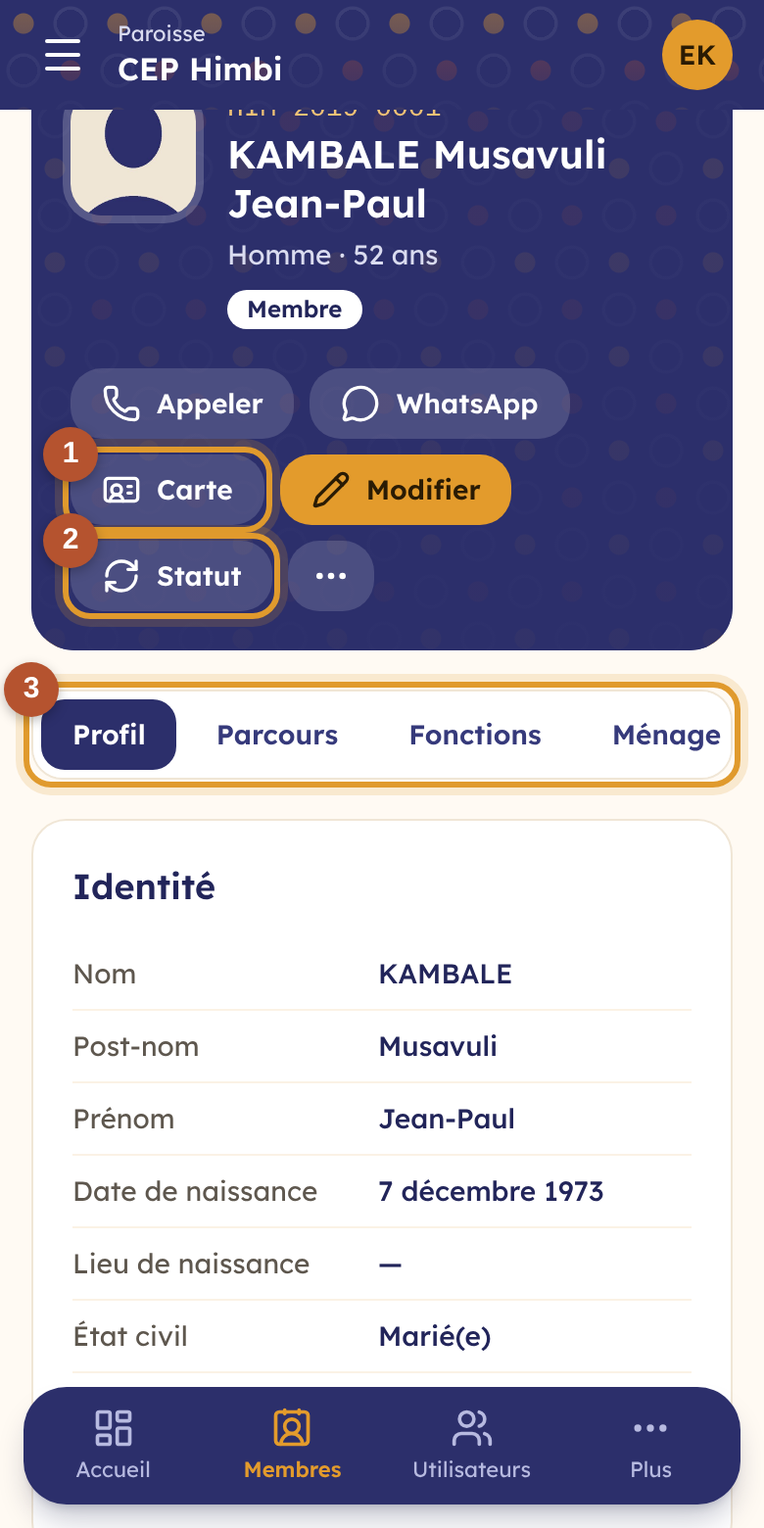
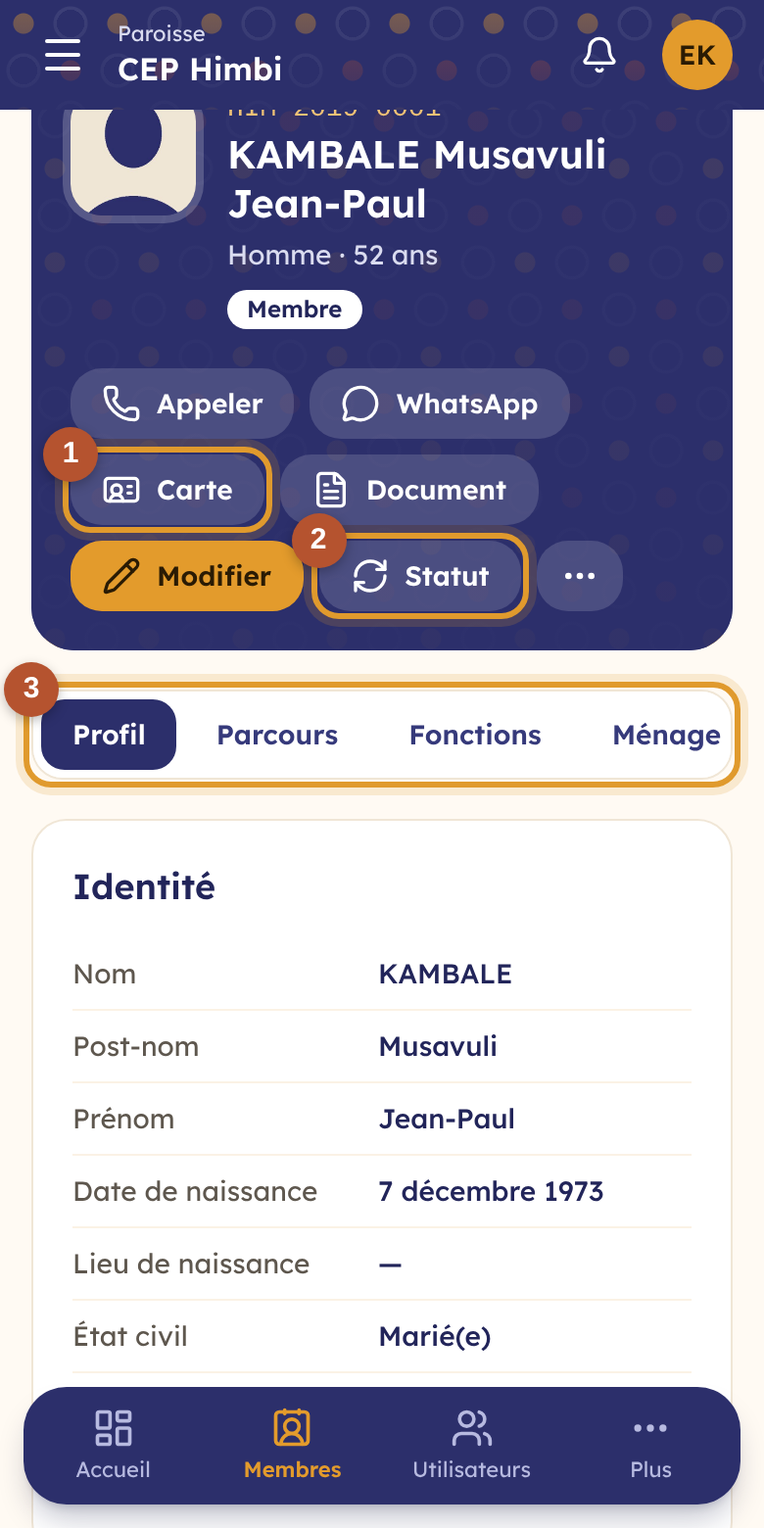
Manuel et feuille de route : documents et registres
Deux chapitres illustrés (29 et 30) avec huit scènes de captures : les
documents délivrés, la délivrance, l'impression et la vérification par QR
code, les modèles et leur éditeur, les registres et la saisie rapide.
Sommaire, FAQ et fiche membre mis à jour ; lien vers la page de
vérification sur l'écran d'impression ; module livré dans la feuille de
route, avec ses décisions.

Claude-Session: https://claude.ai/code/session_01RmE888MJymYsdYztvNtvNP

Changed region(s): [[0.0615, 0.2769, 0.8308, 0.4308], [0.7692, 0.0, 0.8, 0.0615]]

diff --git a/docs/feuille-de-route.html b/docs/feuille-de-route.html
@@ -159,7 +159,7 @@ footer { margin-top: 56px; padding-top: 18px; border-top: 1px solid var(--line);
       <circle cx="80" cy="56" r="9" style="fill: var(--terra)"/>
     </svg>
     <span class="brand">waumini</span>
-    <span class="by">Genius ICT · Goma, Nord-Kivu<br>Mise à jour : octobre 2026, groupes, calendrier et annonces livrés</span>
+    <span class="by">Genius ICT · Goma, Nord-Kivu<br>Mise à jour : octobre 2026, documents et registres livrés</span>
   </header>
 
   <div class="hero">
@@ -268,10 +268,10 @@ const BLOCKS = [
       goal: "Chaque groupe a son espace, chaque fidèle est informé.",
       items: ["Nouveautés : une cloche compte ce qui n’a pas encore été ouvert ; ouvrir la page concernée la range, et ce qui est réglé par un autre se range chez tous", "Notifications sur le téléphone et l’ordinateur, même l’application fermée, avec le nombre sur l’icône", "Chaque étape des circuits prévient ceux qui doivent agir : dépenses, budget, dépassements, paie, avances, paiements déclarés", "Groupes (cellules, chorales, prière…) avec un responsable obligatoire, des adjoints et des membres ; rencontres et présences ; absents à visiter", "Calendrier : cultes chaque semaine, « 1er dimanche » ou « dernier vendredi » du mois, événements sur plusieurs jours ; une date s’annule seule", "Inscriptions facultatives, avec ou sans limite de places ; un membre s’inscrit lui-même", "Présences facultatives : effectifs (hommes, femmes, enfants, dont visiteurs, ou le total seul), pointage des membres, visiteurs nommés à revoir ; fidèles qu’on ne voit plus", "Annonces à toute la communauté, à un département ou à un groupe, partagées sur WhatsApp en un geste ; la semaine et les annonces sur le tableau de bord ; 4 nouveaux chapitres du manuel"],
       demo: "Livré : la convention des jeunes annoncée, partagée sur WhatsApp et remplie à 26 inscrits ; le culte du dimanche compté et pointé ; la cellule qui repère ses absents ; 189 tests automatiques." },
-    { status: "todo", title: "Documents et registres",
+    { status: "done", title: "Documents et registres",
       goal: "Une attestation en une minute, vérifiable par QR code.",
-      items: ["Attestations, lettres, carte de service, ordre de mission, convocation…", "Modèles personnalisables (en-tête, couleurs) et types de documents créés par la communauté", "Numérotation paramétrable", "Imprimés, signés à la main, authentifiés par QR code", "Saisie des anciens registres papier et réédition moderne"],
-      demo: "Une attestation de baptême de 1998 rééditée avec son QR code." },
+      items: ["Neuf modèles fournis : attestations d’appartenance, de baptême, de présentation d’enfant, de service, certificat de mariage, lettre de recommandation, ordre de mission, convocation, lettre", "Modèles du siège valables pour toutes ses paroisses ; chacune les adapte ou crée les siens (attestation de choriste, carte de service…)", "Texte à variables avec accords (né ou née, il ou elle), champs propres au modèle, aperçu sur une vraie fiche", "Numérotation réglable par modèle (code, sigle, année, numéro), remise à 1 chaque année", "Document délivré : texte figé, imprimé sur l’en-tête de la communauté, signé à la main, avec QR code ; annulation avec motif", "Page publique de vérification : authentique, annulé ou inconnu, sans montrer le texte", "Anciens registres papier recopiés acte par acte avec une saisie rapide ; recherche dans tous les registres ; actes reliés aux fiches", "Réédition d’une attestation à partir d’un acte ancien, même pour qui n’est plus membre ; 2 nouveaux chapitres du manuel"],
+      demo: "Livré : le baptême de Josias, inscrit en 1998 dans le vieux cahier de Himbi, réédité avec son QR code et vérifié depuis un téléphone ; 199 tests automatiques." },
     { status: "todo", title: "Suivi pastoral et espace membre",
       goal: "Accompagner chacun ; donner à chaque membre sa part d’accès.",
       items: ["Visites, malades, deuils, parcours des catéchumènes, demandes de prière", "Notes confidentielles : leur auteur seul, jamais exportées, même pas pour le support", "Espace membre : sa fiche, ses contributions et reçus, ses promesses, programme et annonces, demandes de prière et d’attestation", "Langue choisie par chaque membre", "Rappels d’anniversaires et cotisations des groupes (reportés du module Groupes)"],
@@ -384,7 +384,10 @@ const DECISIONS = [
     "Tous les documents courants, plus carte de service, ordre de mission, convocation, présentation d’enfant.",
     "Modèles fournis et personnalisables ; la communauté peut créer ses propres types de documents.",
     "Documents imprimés et signés à la main, authentifiés par QR code.",
-    "Numérotation paramétrable ; saisie des anciens registres et réédition moderne."
+    "Numérotation paramétrable ; saisie des anciens registres et réédition moderne.",
+    "Un document est délivré directement par la personne autorisée, sans circuit d’approbation ; il se signe à la main.",
+    "Un document annulé reste au registre avec son motif ; son QR code indique qu’il est annulé.",
+    "Les modèles du siège valent pour ses paroisses ; une paroisse qui adapte un modèle en garde sa propre copie."
   ]],
   ["Plateforme et support", [
     "Délai de grâce d’un mois avant le passage en lecture seule ; les données restent exportables.",

diff --git a/resources/views/documents/print.blade.php b/resources/views/documents/print.blade.php
@@ -16,6 +16,7 @@
         <div class="mx-auto flex max-w-4xl flex-wrap items-center gap-3 px-4 py-3">
             <a href="{{ route('documents.index') }}" class="inline-flex items-center gap-1 text-sm font-semibold text-ink-600 hover:underline"><x-icon name="chevron-left" class="size-4" /> {{ __('Documents délivrés') }}</a>
             <span class="flex-1"></span>
+            <a href="{{ $document->verifyUrl() }}" target="_blank" rel="noopener" class="btn-ghost text-sm"><x-icon name="qr-code" class="size-4" /> {{ __('Page de vérification') }}</a>
             @if ($document->isCancelled())<span class="badge bg-terra-50 text-terra-700">{{ __('Annulé le :d', ['d' => $document->cancelled_at->translatedFormat('j F Y')]) }}</span>@endif
             <button type="button" onclick="window.print()" class="btn-primary"><x-icon name="printer" class="size-4" /> {{ __('Imprimer') }}</button>
         </div>

diff --git a/resources/views/livewire/dashboard.blade.php b/resources/views/livewire/dashboard.blade.php
@@ -184,7 +184,7 @@
         <h2 class="text-lg">{{ __('Bientôt dans Waumini') }}</h2>
         <p class="mt-1 text-sm text-sand-700">{{ __('Les modules arrivent étape par étape. Suivez l’avancement sur la feuille de route.') }}</p>
         <div class="mt-4 flex flex-wrap gap-2">
-            @foreach ([__('Documents et attestations'), __('Suivi pastoral'), __('Espace membre'), __('Consolidation des paroisses'), __('Site vitrine')] as $module)
+            @foreach ([__('Suivi pastoral'), __('Espace membre'), __('Consolidation des paroisses'), __('Site vitrine')] as $module)
                 <span class="badge bg-sand-100 font-medium text-sand-700">{{ $module }}</span>
             @endforeach
         </div>

diff --git a/docs/manuel/29-documents.md b/docs/manuel/29-documents.md
@@ -1,0 +1,115 @@
+# 29. Les documents : attestations, lettres, ordres de mission
+
+Waumini rédige les documents de la communauté **en une minute** : attestation d'appartenance, de baptême, de présentation d'enfant, de service, certificat de mariage religieux, lettre de recommandation, ordre de mission, convocation, lettre. Chaque document délivré reçoit :
+
+- un **numéro** qui suit (« ABA/HIM/2026/0012 ») ;
+- un **texte figé**, tel qu'il a été imprimé ;
+- un **QR code** : quiconque le scanne vérifie que le document est authentique, ou qu'il a été annulé.
+
+Le document s'imprime sur l'en-tête de la communauté, puis se **signe à la main** et reçoit le cachet.
+
+| Qui | Ce qu'il fait | Permission |
+|---|---|---|
+| Secrétaire, pasteur | Délivrent les documents, les annulent | Délivrer les attestations et lettres |
+| Secrétaire, administrateur | Écrivent et adaptent les modèles | Gérer les modèles de documents |
+
+## Les documents délivrés
+
+**Documents › Documents délivrés**.
+
+<table><tr>
+<td width="68%"><img src="captures/bureau/88-documents.png" alt="Documents délivrés sur ordinateur"></td>
+<td width="32%"><img src="captures/mobile/88-documents.png" alt="Documents délivrés sur téléphone"></td>
+</tr></table>
+
+Le registre de tous les documents délivrés : la personne, le document, son numéro, sa date et qui l'a délivré. Cherchez par numéro ou par nom ; filtrez par sorte de document.
+
+① **Imprimer** rouvre un document pour le réimprimer, à l'identique.
+
+② **Délivrer un document**.
+
+Un document **annulé** reste dans la liste, grisé, avec son motif.
+
+## Délivrer un document
+
+Touchez **Délivrer un document**, puis la sorte de document. Depuis la **fiche d'un membre**, le bouton **Document** ouvre le même écran avec la personne déjà choisie.
+
+<table><tr>
+<td width="68%"><img src="captures/bureau/89-delivrer.png" alt="Délivrer un document sur ordinateur"></td>
+<td width="32%"><img src="captures/mobile/89-delivrer.png" alt="Délivrer un document sur téléphone"></td>
+</tr></table>
+
+- Choisissez le **membre** (ou, pour une lettre, écrivez le **destinataire**). Pour une attestation de baptême, de mariage ou de présentation, vous pouvez aussi choisir un **acte d'un ancien registre** (voir [Les registres](30-registres.md)).
+- ① Remplissez les **champs propres au document** : la destination et les dates d'une mission, la communauté d'accueil d'une recommandation…
+- Indiquez le **signataire** (Waumini propose le dernier utilisé) et sa qualité.
+- ② L'**aperçu** montre le document tel qu'il sera imprimé.
+- ③ **Délivrer et imprimer** : le document reçoit son numéro et son QR code, puis s'ouvre pour l'impression.
+
+Waumini prend les informations **sur la fiche** de la personne : nom, date et lieu de naissance, numéro de membre, date d'adhésion, fonction, et, pour un baptême ou un mariage, la date, le lieu, l'officiant et la référence du registre inscrits dans ses [étapes de vie](12-membres.md). Si une information manque, un cadre orange la signale : complétez la fiche puis revenez, ou laissez les **pointillés**, à compléter à la main sur le papier.
+
+Le texte est **figé** dès la délivrance : corriger ensuite la fiche ne change pas un document déjà délivré. Pour corriger une erreur, **annulez** le document (la croix, dans la liste, avec un motif) et délivrez-en un nouveau.
+
+## Imprimer et vérifier
+
+<table><tr>
+<td width="68%"><img src="captures/bureau/90-document-imprime.png" alt="Document à imprimer sur ordinateur"></td>
+<td width="32%"><img src="captures/mobile/90-document-imprime.png" alt="Document à imprimer sur téléphone"></td>
+</tr></table>
+
+Le document porte l'en-tête de la communauté (nom, identité juridique, adresse, devise, choisis dans [Paramètres › Identité et documents](08-parametres.md)), son numéro, son titre, le texte, le lieu et la date, la qualité et le nom du signataire, et, en bas, le **QR code**. Touchez **Imprimer**, en A4.
+
+① **Page de vérification** montre ce que verra la personne qui scannera le QR code.
+
+<table><tr>
+<td width="68%"><img src="captures/bureau/91-verification.png" alt="Vérification sur ordinateur"></td>
+<td width="32%"><img src="captures/mobile/91-verification.png" alt="Vérification sur téléphone"></td>
+</tr></table>
+
+Une école, une ambassade, une autre église scanne le QR code avec n'importe quel téléphone, sans compte Waumini. La page indique **Document authentique** ou **Document annulé**, avec la sorte de document, le numéro, le nom, la date, la communauté et le signataire. Pour protéger la vie privée, le texte complet n'y figure pas : on compare avec le papier présenté. Un faux, dont le QR code ne correspond à rien, affiche **Document inconnu**.
+
+## Les modèles
+
+**Documents › Modèles de documents**.
+
+<table><tr>
+<td width="68%"><img src="captures/bureau/92-modeles.png" alt="Modèles sur ordinateur"></td>
+<td width="32%"><img src="captures/mobile/92-modeles.png" alt="Modèles sur téléphone"></td>
+</tr></table>
+
+Neuf modèles sont fournis au **siège**, et valent pour toutes ses paroisses (badge **Du siège**).
+
+① **Adapter pour notre communauté** : la paroisse en garde une copie, qu'elle modifie librement. Chez elle, la copie **remplace** le modèle du siège ; les autres paroisses gardent celui du siège.
+
+② **Nouveau modèle** : une attestation de choriste, une carte de service, un certificat de fin de catéchèse…
+
+Un modèle de la communauté peut être **mis de côté** : il n'est plus proposé, mais les documents déjà délivrés restent valables.
+
+## Écrire un modèle
+
+<table><tr>
+<td width="68%"><img src="captures/bureau/93-modele-editeur.png" alt="Éditeur de modèle sur ordinateur"></td>
+<td width="32%"><img src="captures/mobile/93-modele-editeur.png" alt="Éditeur de modèle sur téléphone"></td>
+</tr></table>
+
+- Le **nom** du modèle, le **titre imprimé**, et un **code** court (ABA, ODM…) qui entre dans le numéro.
+- **Délivré à** : un membre ; un membre ou une personne d'un ancien registre ; ou un destinataire libre (une lettre à la mairie).
+- **Étape de vie reprise** : le baptême, le mariage… dont le document cite la date, le lieu et l'officiant.
+- **Format du numéro** : par exemple `{CODE}/{SIGLE}/{ANNEE}/{NUMERO}`. `{SIGLE}` est le sigle de la paroisse, `{SIEGE}` celui du siège, `{AN}` l'année sur deux chiffres. La numérotation repart à 1 chaque année.
+
+① **Les champs à remplir** : ce que la personne qui délivre doit indiquer. Chaque champ devient une variable : le champ « Voix » s'écrit `{voix}` dans le texte.
+
+② **Le texte**. Touchez une variable pour l'insérer à l'endroit du curseur :
+
+| Variable | Devient |
+|---|---|
+| `{civilite}` | Monsieur ou Madame |
+| `{nom_officiel}` | KAHINDO Vagheni Esther |
+| `{né}`, `{il}`, `{Il}` | né ou née, il ou elle, Il ou Elle |
+| `inscrit{e}` | inscrit ou inscrite |
+| `{date_naissance}`, `{lieu_naissance}` | 14 mars 1982, Butembo |
+| `{evenement_date}`, `{evenement_registre}` | la date du baptême, sa référence dans le registre |
+| `{signataire}`, `{qualite_signataire}`, `{communaute}` | Daniel Paluku, Pasteur, Paroisse de Himbi |
+
+Deux astérisques de chaque côté mettent en **gras** : `**{nom_officiel}**`. Une ligne vide commence un nouveau paragraphe. Une variable mal écrite est signalée en rouge.
+
+③ **L'aperçu** se met à jour pendant que vous écrivez, avec une vraie fiche de la communauté.

diff --git a/docs/manuel/30-registres.md b/docs/manuel/30-registres.md
@@ -1,0 +1,56 @@
+# 30. Les registres officiels et les anciens cahiers
+
+Beaucoup de communautés gardent dans une armoire leurs **registres papier** : baptêmes, mariages, présentations d'enfants, parfois depuis cinquante ans. Ces cahiers s'abîment, se perdent, et retrouver un acte prend des heures. Waumini permet de les **recopier acte par acte**, de retrouver une personne en une seconde, et de **rééditer** une attestation moderne, avec son QR code, à partir d'un acte ancien.
+
+| Qui | Ce qu'il fait | Permission |
+|---|---|---|
+| Secrétaire | Crée les registres, recopie et corrige les actes, les relie aux fiches | Tenir les registres officiels et les anciens registres |
+| Pasteur, secrétaire | Cherchent dans les registres et rééditent les attestations | Délivrer les attestations et lettres |
+
+## Les registres et la recherche
+
+**Documents › Registres**.
+
+<table><tr>
+<td width="68%"><img src="captures/bureau/94-registres.png" alt="Registres sur ordinateur"></td>
+<td width="32%"><img src="captures/mobile/94-registres.png" alt="Registres sur téléphone"></td>
+</tr></table>
+
+① **La recherche** porte sur **tous les registres** à la fois : nom, post-nom, prénom, nom des parents, du conjoint, ou numéro de l'acte.
+
+② **Les actes trouvés**, avec leur registre et leur date. Le badge **Membre** signale un acte relié à une fiche. Toucher un acte l'ouvre dans son registre.
+
+Plus bas, **les registres** de la communauté, avec le nombre d'actes saisis et reliés.
+
+**Nouveau registre** : créez-en un **par cahier**. Choisissez la sorte (baptêmes, mariages, présentations d'enfants, confirmations, consécrations, décès, autre), un nom (« Registre des baptêmes n° 2 »), les années couvertes et, si vous voulez, une remarque (l'état du cahier, où il est rangé).
+
+## Recopier un cahier
+
+Ouvrez le registre.
+
+<table><tr>
+<td width="68%"><img src="captures/bureau/95-registre.png" alt="Registre sur ordinateur"></td>
+<td width="32%"><img src="captures/mobile/95-registre.png" alt="Registre sur téléphone"></td>
+</tr></table>
+
+① **La saisie rapide**, pensée pour recopier un cahier entier sans perdre de temps :
+
+- recopiez l'acte **tel qu'il est écrit** : numéro, page, date, nom, post-nom, prénom, sexe, naissance, père et mère (ou conjoint pour un mariage), lieu, officiant, parrain et marraine ou témoins ;
+- **Enregistrer et suivant** : le **numéro suivant** se propose tout seul, et la **date, le lieu, l'officiant et la page** restent, puisqu'ils sont souvent communs à plusieurs actes (un baptême de vingt personnes le même dimanche) ; le curseur revient sur le nom ;
+- une mention en marge, une rature, une page abîmée vont dans **Remarques**.
+
+Un même numéro n'est pas accepté deux fois dans un registre. S'il est vraiment écrit deux fois dans le cahier, notez « 125 bis ».
+
+Dans la liste, le crayon **corrige** un acte ; on peut aussi le supprimer.
+
+## Relier un acte à la fiche d'un membre
+
+Quand la personne de l'acte est membre, touchez **Relier**, cherchez sa fiche et choisissez-la. Sa fiche reçoit alors l'**étape de vie** (le baptême, le mariage…) avec la date, le lieu, l'officiant et la **référence du registre** (« Registre des baptêmes n° 1, acte 322, page 22 »). Si la fiche connaissait déjà cette étape, elle garde ce qu'elle savait ; l'acte complète seulement ce qui manquait.
+
+Un acte relié porte, sous le nom, le numéro de membre : le toucher ouvre la fiche. L'icône de lien **délie** l'acte.
+
+## Rééditer une attestation
+
+② **Rééditer** délivre l'attestation qui correspond au registre (attestation de baptême, certificat de mariage, attestation de présentation d'enfant), **à partir de l'acte** : nom, naissance, parents, date, lieu, officiant et référence du registre. Cela vaut aussi pour une personne qui **n'est plus membre**, ou qui ne l'a jamais été dans Waumini : un ancien fidèle parti à Kinshasa qui demande l'attestation de son baptême de 1998.
+
+Le document suit ensuite le chemin de tous les [documents](29-documents.md) : numéro, texte figé, impression, signature à la main et **QR code** de vérification.

diff --git a/docs/manuel/README.md b/docs/manuel/README.md
@@ -53,15 +53,20 @@ Il grandit avec l'application. Chaque étape de la [feuille de route](../feuille
 20. [Le calendrier, les inscriptions et les présences](27-calendrier-presences.md)
 21. [Les annonces et le partage sur WhatsApp](28-annonces.md)
 
+### Documents et registres
+
+22. [Les documents : attestations, lettres, ordres de mission, avec QR code](29-documents.md)
+23. [Les registres officiels et les anciens cahiers](30-registres.md)
+
 ### Pour l'administrateur et les responsables
 
-22. [Organiser la hiérarchie : régions, secteurs, paroisses](04-hierarchie.md)
-23. [Gérer les utilisateurs](05-utilisateurs.md)
-24. [Rôles et permissions](06-roles.md)
-25. [Devises et taux du jour](07-devises.md)
-26. [Paramètres, identité et documents, apparence, libellés et accès du support](08-parametres.md)
-27. [Le journal d'audit](09-journal.md)
-28. [L'abonnement](11-abonnement.md)
+24. [Organiser la hiérarchie : régions, secteurs, paroisses](04-hierarchie.md)
+25. [Gérer les utilisateurs](05-utilisateurs.md)
+26. [Rôles et permissions](06-roles.md)
+27. [Devises et taux du jour](07-devises.md)
+28. [Paramètres, identité et documents, apparence, libellés et accès du support](08-parametres.md)
+29. [Le journal d'audit](09-journal.md)
+30. [L'abonnement](11-abonnement.md)
 
 ### Aide
 
@@ -75,7 +80,7 @@ Waumini fournit des **rôles modèles**. Votre administrateur peut les adapter o
 |---|---|
 | **Administrateur** | Tout. Attribué à la personne qui a créé le compte de la communauté. |
 | **Pasteur** | Vue d'ensemble, plan d'action, approbation du budget, des dépenses, des dépassements, de la paie et des avances sur salaire, suivi pastoral, rapports. |
-| **Secrétaire** | Registre des membres, départements, groupes, calendrier, présences, annonces, documents. Ne voit pas les dîmes nominatives. |
+| **Secrétaire** | Registre des membres, départements, groupes, calendrier, présences, annonces, documents et anciens registres. Ne voit pas les dîmes nominatives. |
 | **Trésorier** | Caisses, recettes, promesses, dépenses, taux du jour, paie, rapports. |
 | **Responsable de département** | Son département seulement : besoins budgétaires, demandes de dépense, avancement de ses actions, groupes, activités et annonces du département. |
 | **Conseil / comité** | Lecture des rapports, sans rien pouvoir modifier. |

diff --git a/docs/manuel/12-membres.md b/docs/manuel/12-membres.md
@@ -50,6 +50,7 @@ Le **registre** rassemble les fidèles de la communauté : identité, contacts, 
 En haut de la fiche : la photo, le numéro, le nom officiel (NOM Post-nom Prénom), l'âge et le statut. Les boutons **Appeler** et **WhatsApp** ouvrent directement l'application du téléphone.
 
 - **Carte** ① prépare la [carte de membre](#la-carte-de-membre) à imprimer.
+- **Document** délivre une attestation, une lettre ou un ordre de mission à cette personne (voir [Les documents](29-documents.md)).
 - **Statut** ② change le statut de la personne (voir ci-dessous).
 - **Modifier** ouvre le formulaire de la fiche. Le menu **⋯** permet de supprimer la fiche ; elle reste visible dans le [journal d'audit](09-journal.md).
 
@@ -73,7 +74,7 @@ Le statut indique où en est chaque personne : Membre, Sympathisant, Catéchumè
 <td width="32%"><img src="captures/mobile/30-membre-parcours.png" alt="Parcours d'un membre sur téléphone"></td>
 </tr></table>
 
-Dans l'onglet **Parcours**, touchez **Ajouter** ① pour enregistrer un baptême, une confirmation, une présentation d'enfant, un mariage religieux, une consécration ou toute autre étape. Indiquez la date, le lieu, l'officiant, les témoins et le **numéro dans le registre**, même celui d'un ancien registre papier.
+Dans l'onglet **Parcours**, touchez **Ajouter** ① pour enregistrer un baptême, une confirmation, une présentation d'enfant, un mariage religieux, une consécration ou toute autre étape. Indiquez la date, le lieu, l'officiant, les témoins et le **numéro dans le registre**, même celui d'un ancien registre papier. Si le cahier a été recopié dans Waumini, il suffit de **relier** l'acte à la fiche depuis le registre : l'étape de vie se remplit seule (voir [Les registres](30-registres.md)).
 
 L'**historique du statut** ② montre chaque changement, avec la date, le motif et la personne qui l'a fait.
 

diff --git a/docs/manuel/faq.md b/docs/manuel/faq.md
@@ -78,3 +78,11 @@ Son compte doit être **lié à sa fiche de membre** : c'est par sa fiche que Wa
 ### Nous ne comptons pas les hommes et les femmes séparément. Faut-il le faire ?
 
 Non. Rien n'est obligatoire dans les présences : donnez seulement le **total**, ou pointez les membres, ou les deux (voir [Le calendrier et les présences](27-calendrier-presences.md)).
+
+### Quelqu'un présente une attestation de notre église. Est-elle vraie ?
+
+Scannez son **QR code** avec n'importe quel téléphone. La page qui s'ouvre dit si le document est **authentique**, **annulé** ou **inconnu**, avec le nom, le numéro et la date : comparez avec le papier. Voir [Les documents](29-documents.md).
+
+### Un ancien fidèle demande l'attestation de son baptême de 1998, mais il n'est pas dans Waumini.
+
+Cherchez-le dans **Registres** : si le cahier des baptêmes a été recopié, son acte y est. Touchez **Rééditer** : l'attestation est préparée à partir de l'acte, avec un QR code. Sinon, recopiez d'abord l'acte depuis le cahier papier. Voir [Les registres](30-registres.md).

diff --git a/docs/manuel/03-tableau-de-bord.md b/docs/manuel/03-tableau-de-bord.md
@@ -30,4 +30,4 @@ Sur téléphone, la **barre d'onglets** ④ flotte toujours en bas de l'écran.
 - **Taux du jour** : le taux de chaque devise par rapport au dollar. La mention **« Pas encore saisi aujourd'hui »** rappelle au trésorier de le mettre à jour. Le lien **Mettre à jour** ouvre l'écran des taux.
 - **Activité récente** : les dernières actions dans la communauté (qui a fait quoi, et quand). Le lien **Tout le journal** ouvre le [journal d'audit](09-journal.md).
 - **Essai gratuit** : pendant les 30 jours d'essai, un badge indique les jours restants.
-- **Bientôt dans Waumini** : les modules qui arrivent étape par étape (documents, suivi pastoral, espace membre…).
+- **Bientôt dans Waumini** : les modules qui arrivent étape par étape (suivi pastoral, espace membre, consolidation…).
